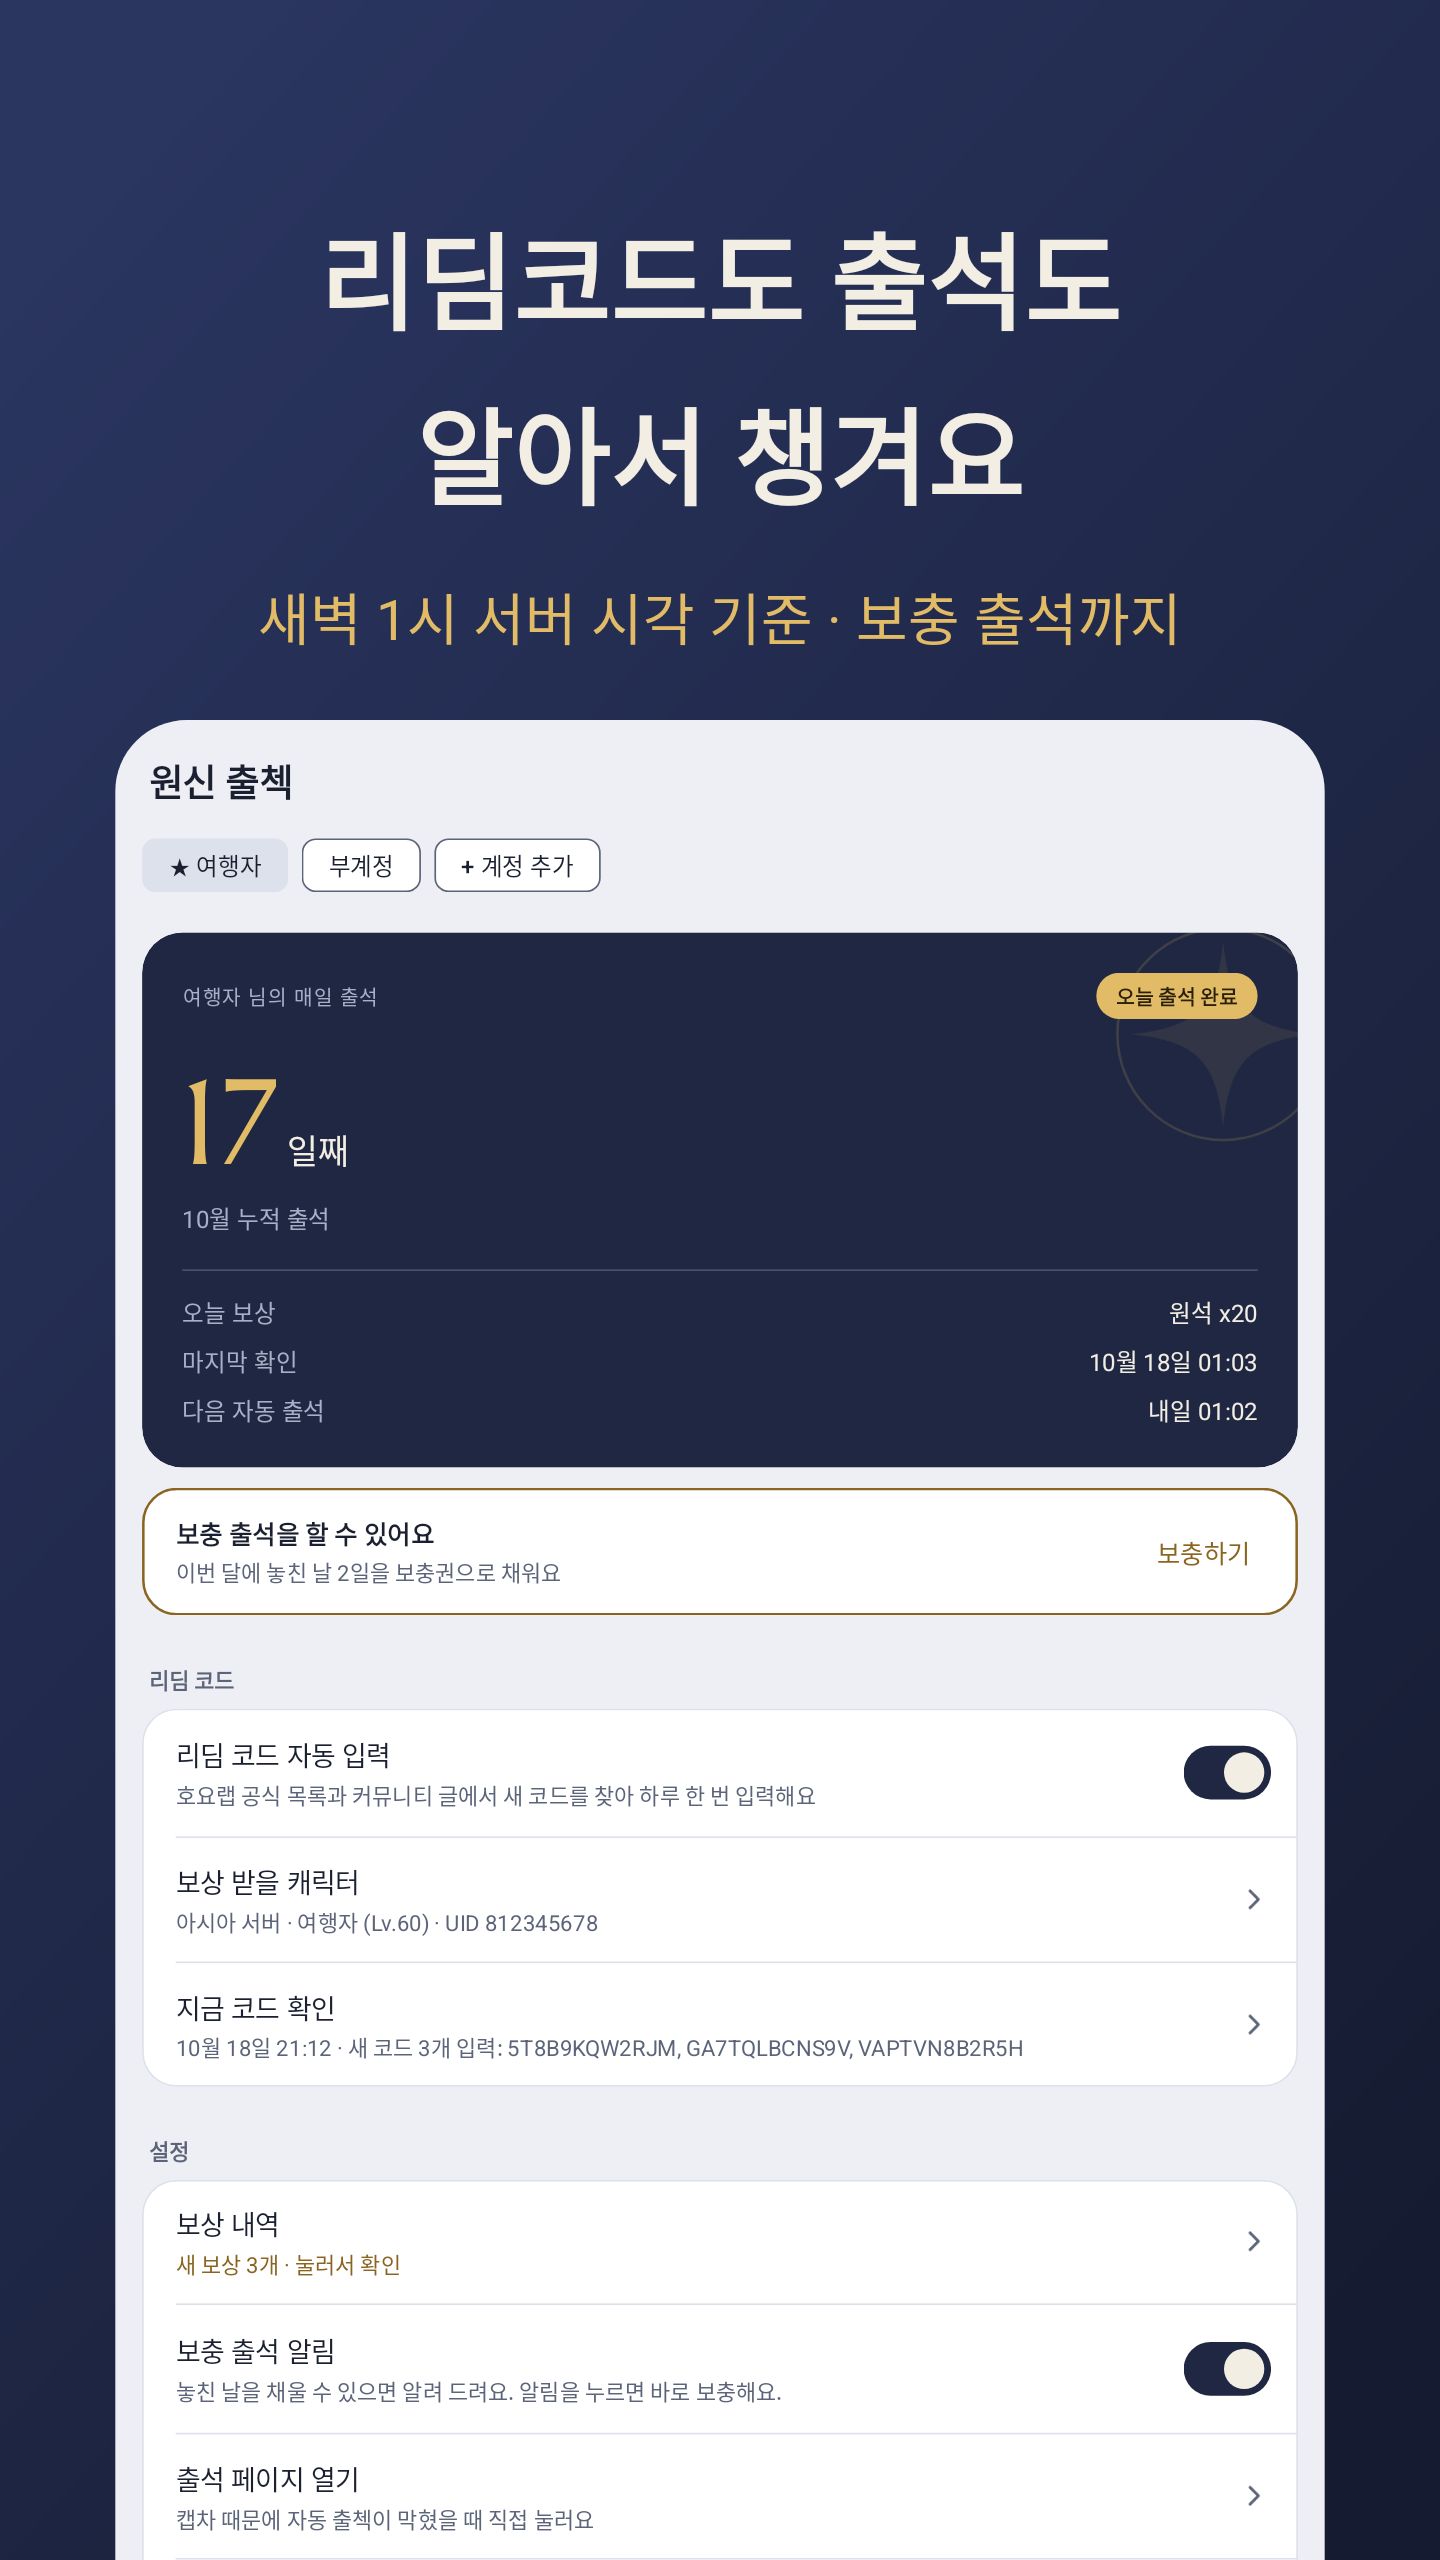
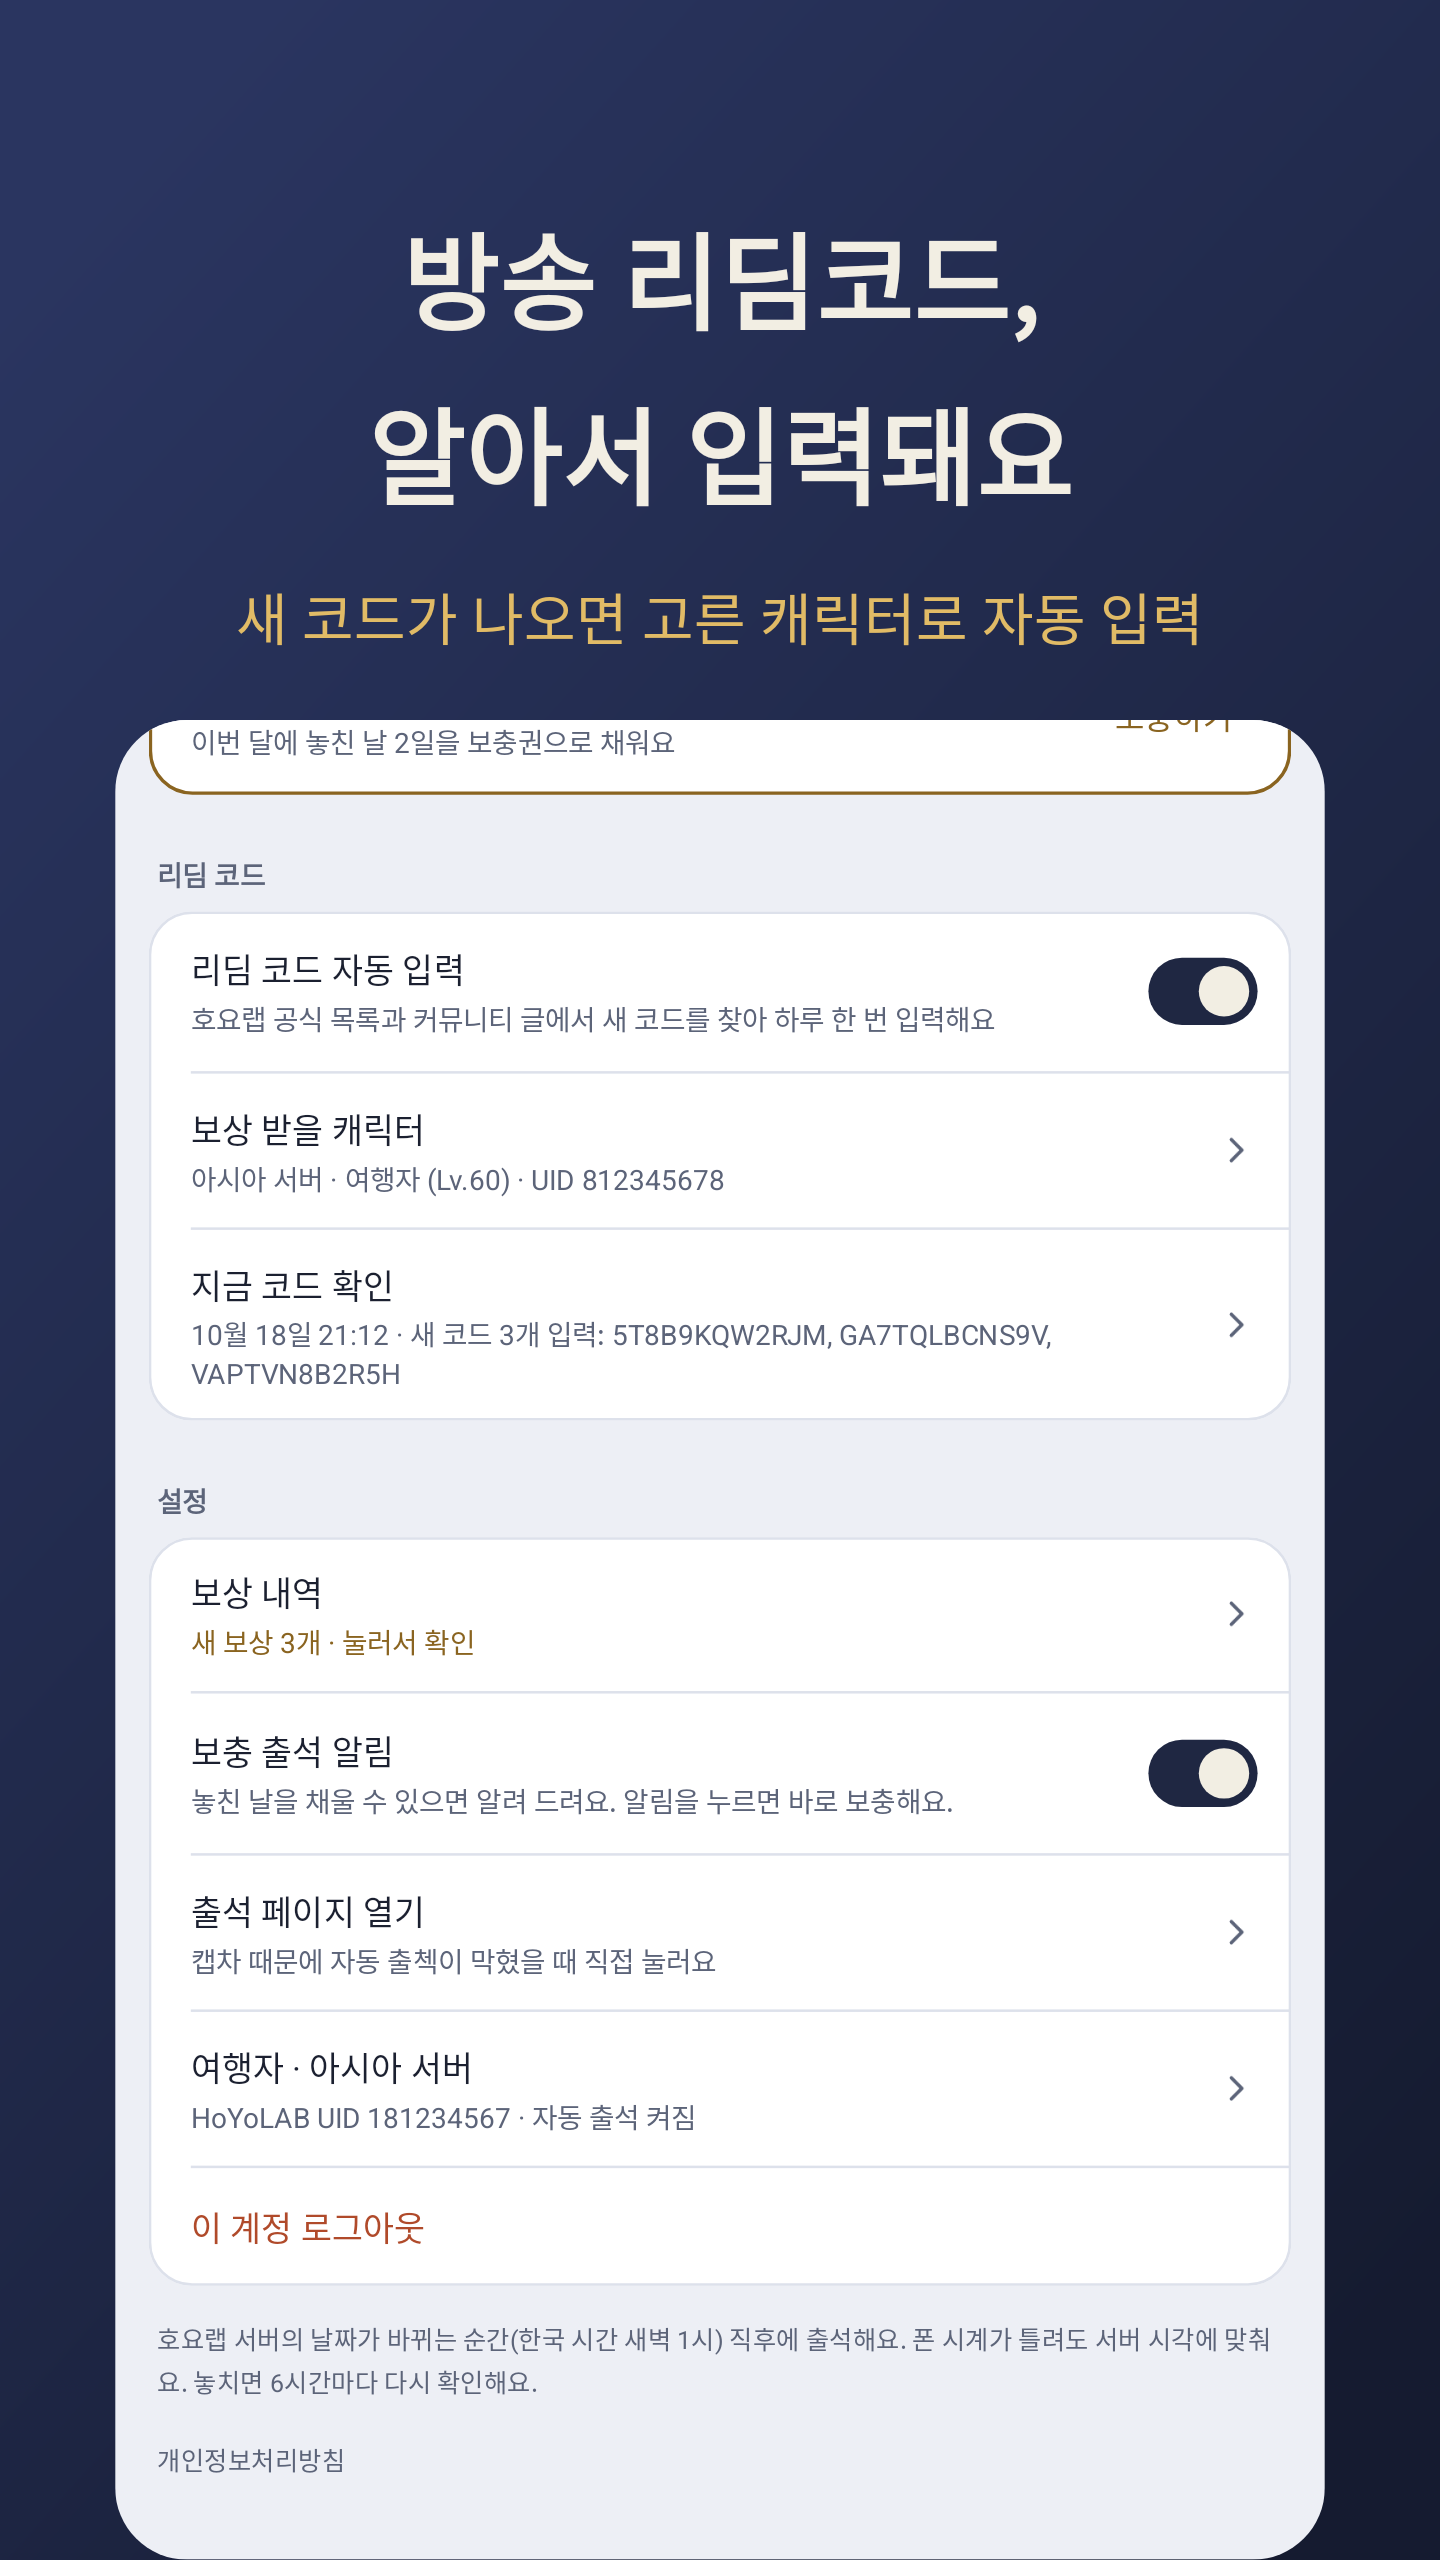
스토어 태블릿 스크린샷을 장면별 4장으로
폭 576dp(1440px, 400dpi) 태블릿으로 그려 휴대폰과 같은 장면(리딤, 출석, 보충, 여러 계정)을 담는다.

Claude-Session: https://claude.ai/code/session_01AVkzu9p2ytMeGHejvvs68H

diff --git a/app/src/test/java/kr/sumi/checkin/StoreAssetsTest.kt b/app/src/test/java/kr/sumi/checkin/StoreAssetsTest.kt
@@ -95,7 +95,7 @@ class StoreAssetsTest {
     /**
      * 스토어 스크린샷 1080×1920: 위에 큰 문구, 아래에 실제 앱 화면(activity_main)을 줄여 얹는다.
      * scrollTo를 주면 그 뷰가 화면 위쪽에 오도록 내린다.
-     * tablet이면 1440×2560 틀에 폭 720dp(320dpi) 태블릿 화면으로 그린다(7인치·10인치 태블릿 칸에 같이 쓴다).
+     * tablet이면 1440×2560 틀에 폭 576dp(400dpi) 태블릿 화면으로 그린다(7인치·10인치 태블릿 칸에 같이 쓴다).
      */
     private fun screenshot(
         state: MainUiState, night: Boolean, title: String, sub: String,
@@ -104,15 +104,16 @@ class StoreAssetsTest {
         // 휴대폰: 앱 화면은 1080×2160(420dpi)으로 그리고, 스크린샷 틀은 1080×1920이다.
         val w = if (tablet) 1440 else 1080
         val h = if (tablet) 2560 else 1920
-        val appH = w * 2
+        // 태블릿은 보이는 높이만큼만 잡아야 내용이 넘쳐서 장면마다 다른 곳으로 스크롤할 수 있다.
+        val appH = if (tablet) ((h - 540f * (w / 1080f)) / 0.84f).toInt() else w * 2
         val k = w / 1080f
         paparazzi.unsafeUpdateConfig(DeviceConfig.PIXEL_6.copy(
             screenWidth = w, screenHeight = h, nightMode = if (night) NightMode.NIGHT else NightMode.NOTNIGHT,
-            density = if (tablet) Density.XHIGH else DeviceConfig.PIXEL_6.density,
-            xdpi = if (tablet) 320 else DeviceConfig.PIXEL_6.xdpi, ydpi = if (tablet) 320 else DeviceConfig.PIXEL_6.ydpi,
+            density = if (tablet) Density.create(400) else DeviceConfig.PIXEL_6.density,
+            xdpi = if (tablet) 400 else DeviceConfig.PIXEL_6.xdpi, ydpi = if (tablet) 400 else DeviceConfig.PIXEL_6.ydpi,
         ))
         // 문구 크기를 틀 폭에 맞춘다(휴대폰 420dpi 기준).
-        val textScale = k * 2.625f / (if (tablet) 2f else 2.625f)
+        val textScale = k * 2.625f / (if (tablet) 2.5f else 2.625f)
         val context = paparazzi.context
         val app = paparazzi.inflate<android.widget.ScrollView>(R.layout.activity_main)
         app.isVerticalScrollBarEnabled = false
@@ -187,13 +188,22 @@ class StoreAssetsTest {
         title = "여러 계정도\n차례로 자동 출석", sub = "광고 없이, 로그인 정보는 폰 안에만",
     )
 
-    // 태블릿은 화면 하나에 내용이 거의 다 들어가서 맨 위부터 보여 준다.
     @Test fun tablet1Redeem() = screenshot(
-        redeemed, night = false, tablet = true,
-        title = "리딤코드도 출석도\n알아서 챙겨요", sub = "새벽 1시 서버 시각 기준 · 보충 출석까지",
+        redeemed, night = false, scrollTo = R.id.redeemGroup, tablet = true,
+        title = "방송 리딤코드,\n알아서 입력돼요", sub = "새 코드가 나오면 고른 캐릭터로 자동 입력",
     )
 
-    @Test fun tablet2Dark() = screenshot(
+    @Test fun tablet2CheckIn() = screenshot(
+        signed, night = false, tablet = true,
+        title = "새벽 1시, 서버 시각에\n자동 출석", sub = "폰 시계가 아니라 HoYoLAB 서버 시각 기준",
+    )
+
+    @Test fun tablet3MakeUp() = screenshot(
+        signed, night = false, scrollTo = R.id.makeUpCard, aboveDp = 150, tablet = true,
+        title = "놓친 날은\n보충 출석까지", sub = "알림을 누르면 바로 보충해요",
+    )
+
+    @Test fun tablet4Dark() = screenshot(
         signed, night = true, tablet = true,
         title = "여러 계정도\n차례로 자동 출석", sub = "광고 없이, 로그인 정보는 폰 안에만",
     )

diff --git a/store/README.md b/store/README.md
@@ -62,7 +62,7 @@ https://github.com/lesumein/genshin-checkin
 | 앱 아이콘 | `icon512.png` | 512×512 |
 | 그래픽 이미지 | `featureGraphic.png` | 1024×500 |
 | 휴대전화 스크린샷 | `screenshot1Redeem.png`(리딤), `screenshot2CheckIn.png`(자동 출석), `screenshot3MakeUp.png`(보충 출석), `screenshot4Dark.png`(여러 계정·다크) — 이 순서로 올린다 | 1080×1920 (플레이는 16:9 / 9:16만 받는다) |
-| 7인치·10인치 태블릿 스크린샷 | `tablet1Redeem.png`, `tablet2Dark.png` (두 칸에 같은 파일) | 1440×2560 |
+| 7인치·10인치 태블릿 스크린샷 | `tablet1Redeem.png`, `tablet2CheckIn.png`, `tablet3MakeUp.png`, `tablet4Dark.png` (두 칸에 같은 파일, 이 순서로) | 1440×2560, 폭 576dp |
 
 그래픽 이미지와 스크린샷은 알파 채널 없는 24비트 PNG여야 한다(복사 후 RGB로 변환). 이미지는 실제 화면 레이아웃을 그린 것이다(`app/src/test/.../StoreAssetsTest.kt`). 화면이 바뀌면
 `./gradlew recordPaparazziDebug` 후 `app/src/test/snapshots/images/*StoreAssetsTest_*`를 이 폴더로 복사한다.
